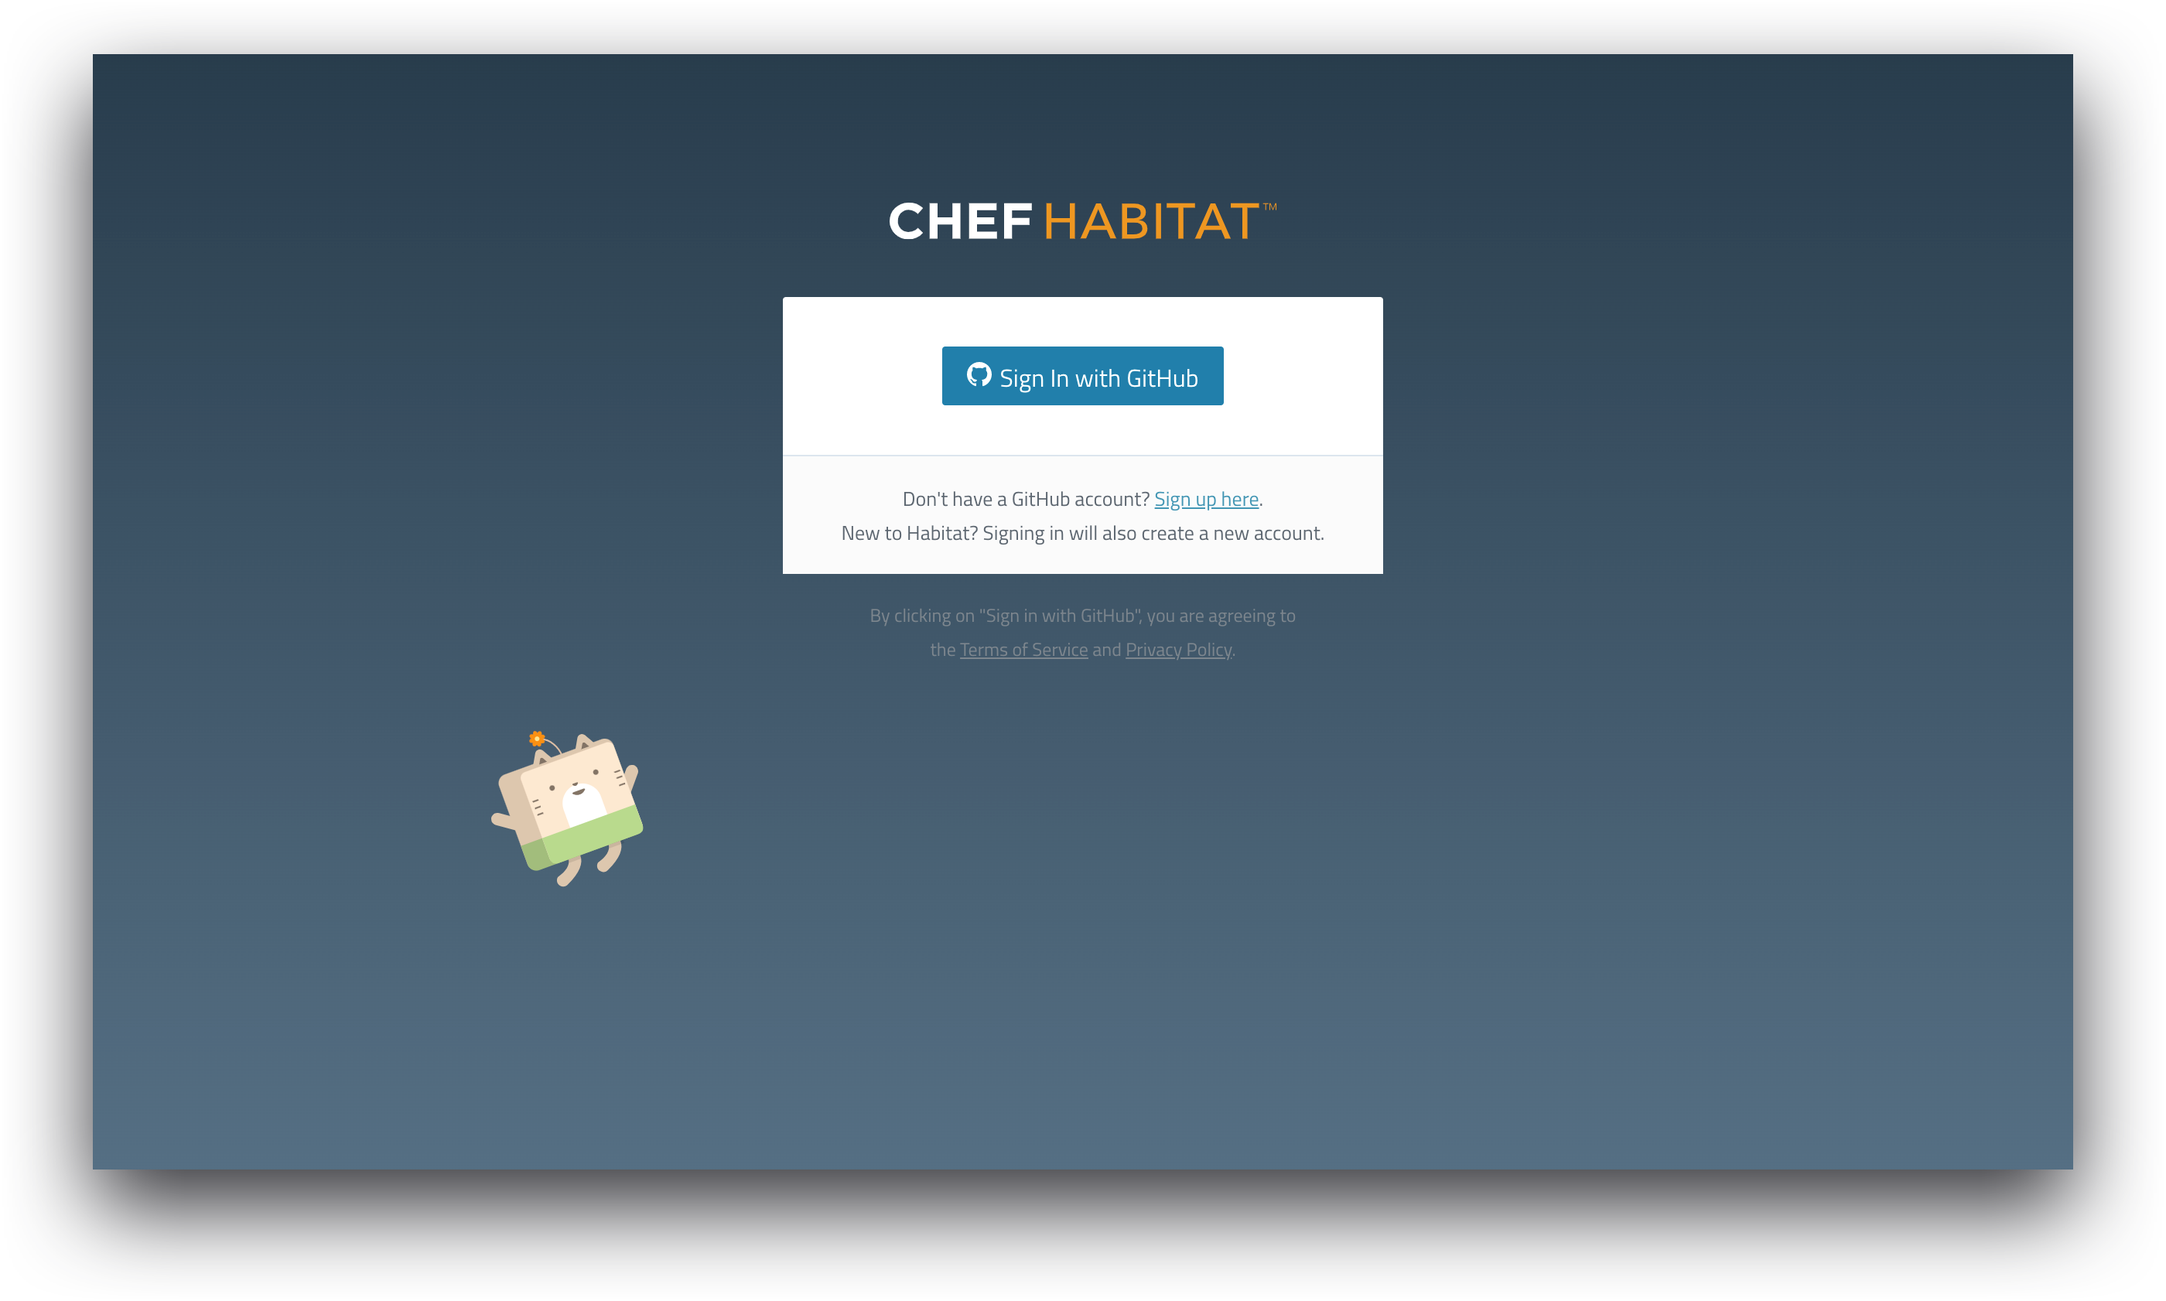
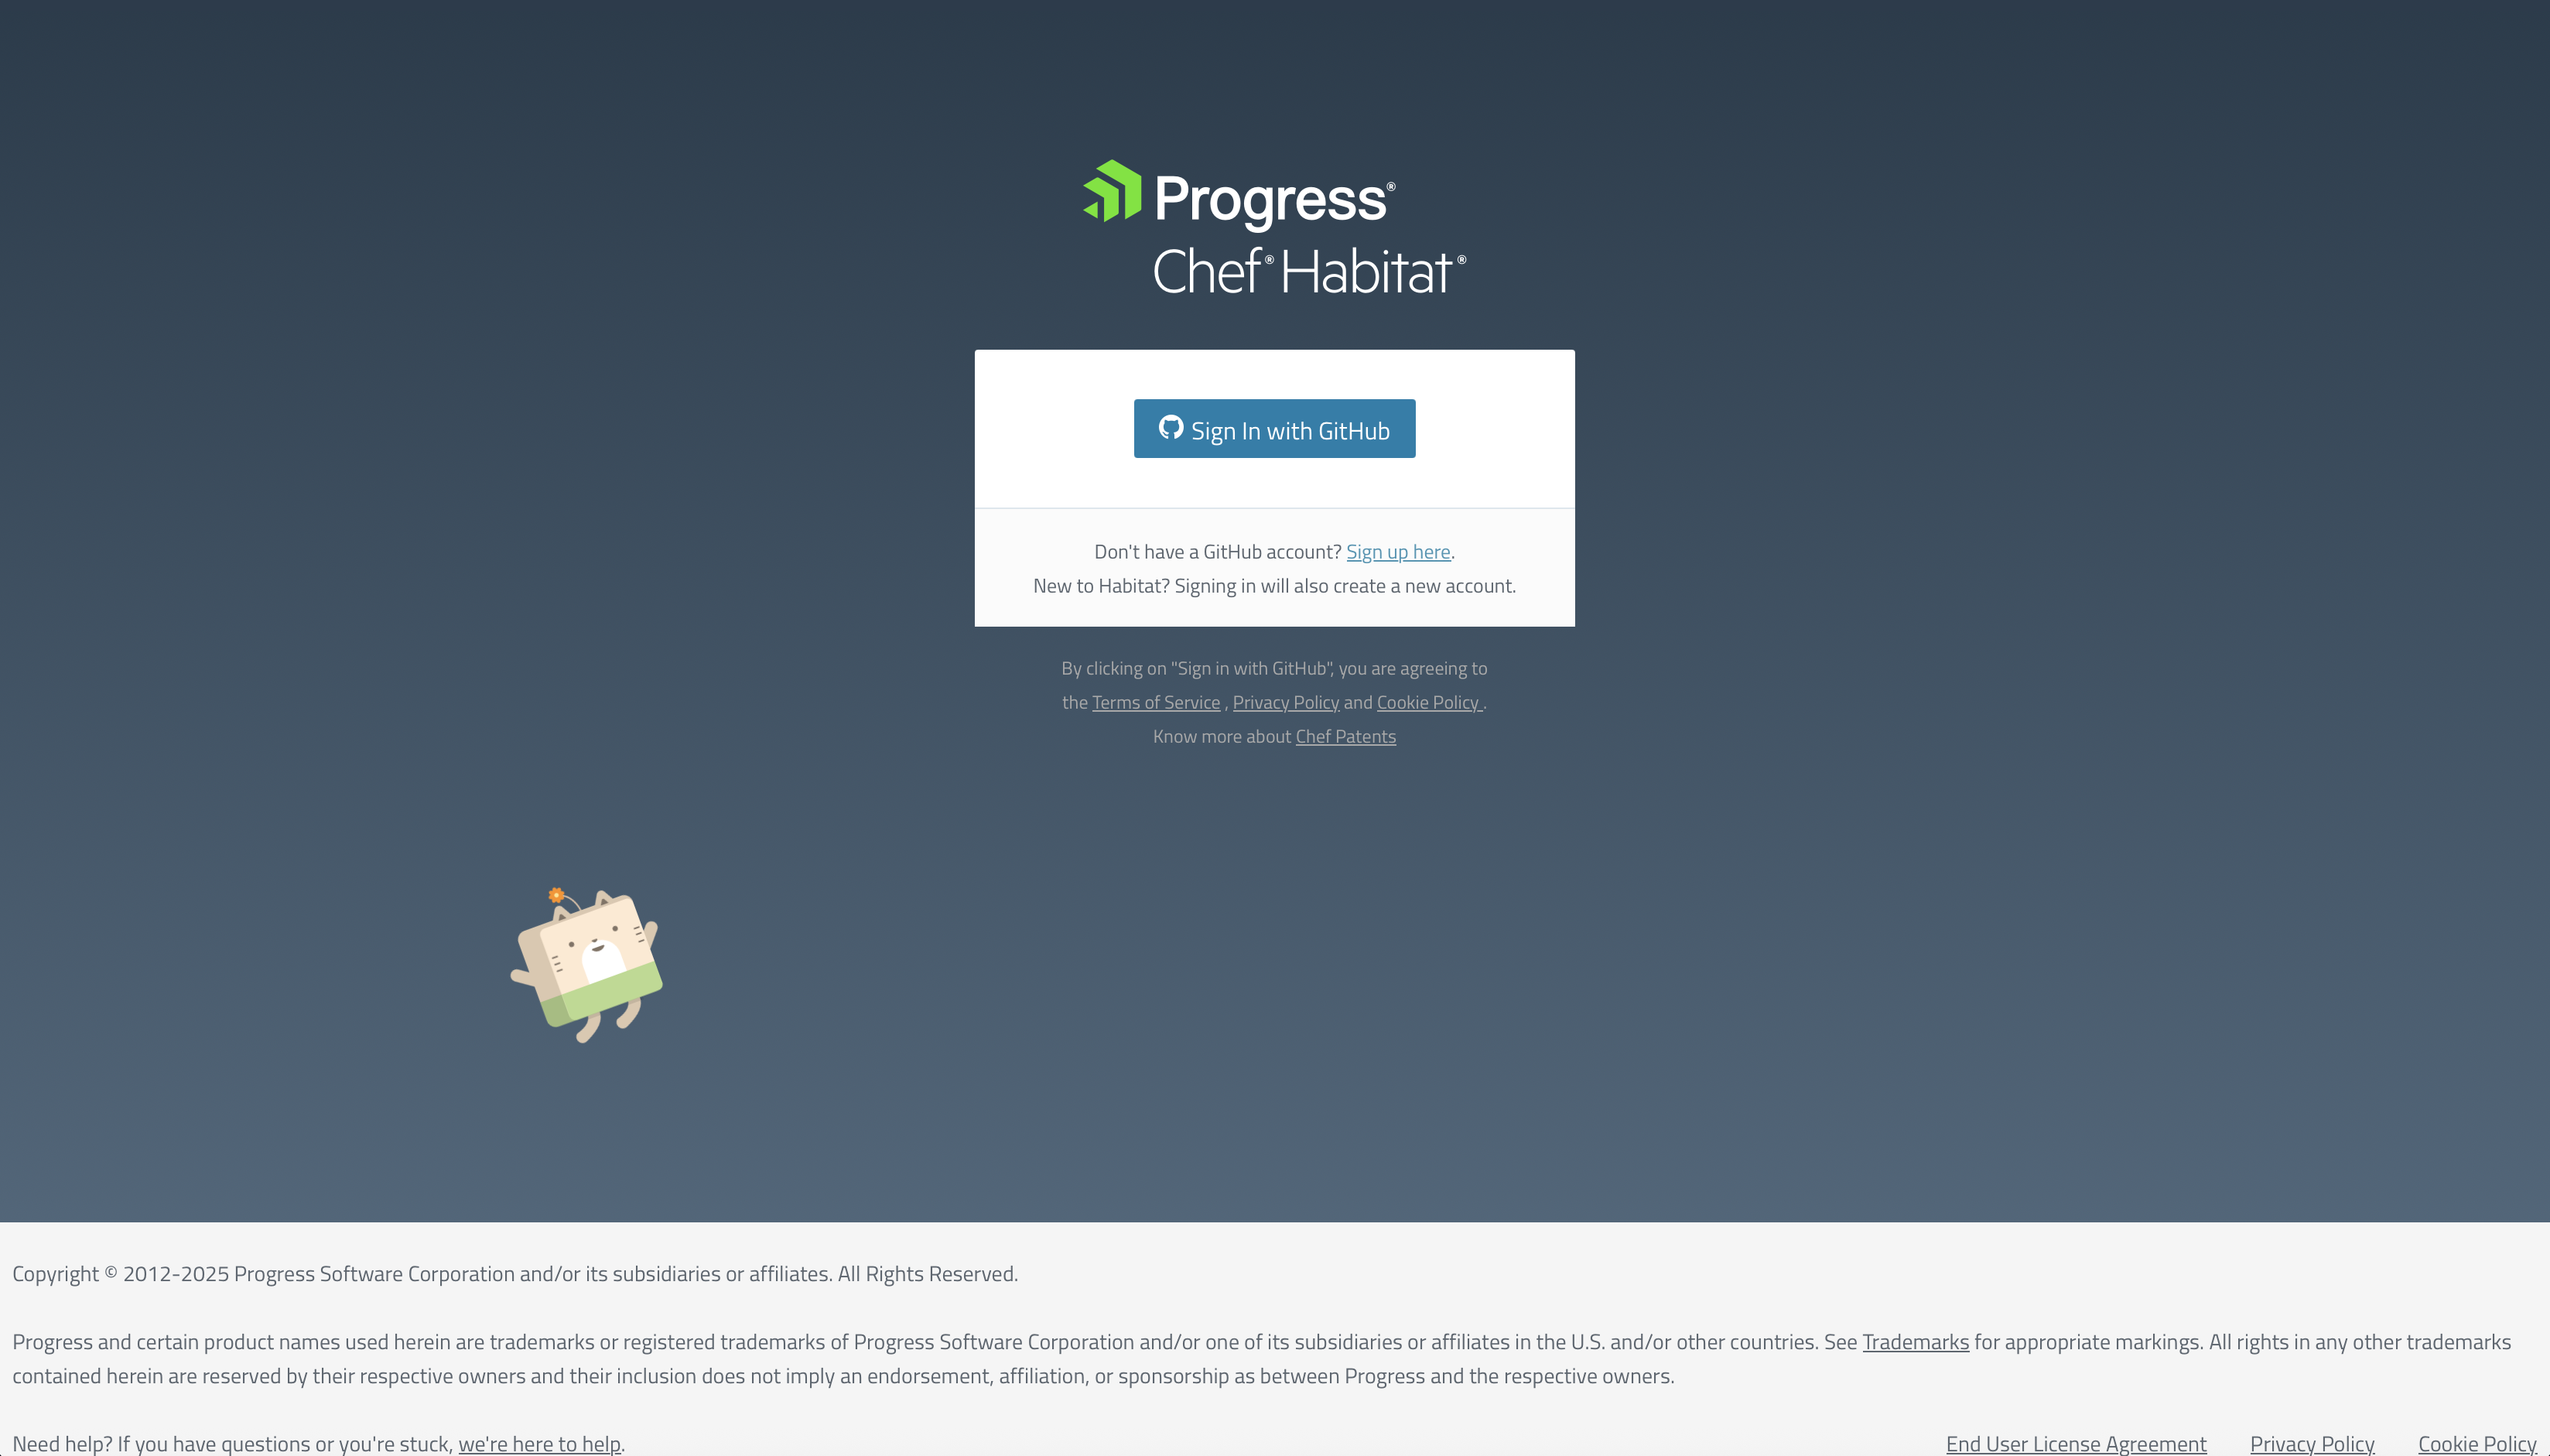
SaaS Builder documentation updates
Updated the documentation consistent with the current builder
implementation -
 - Removed all the package building related document
 - Updated images to reflect current footer and progress branding.

diff --git a/content/saas_builder/builder_origin_packages.md b/content/saas_builder/builder_origin_packages.md
@@ -118,92 +118,3 @@ You can instruct the Supervisor to run packages from an exported tarball:
 ```
 
 Note: On a clean server, this will download additional packages to satisfy the Supervisor dependencies. You will also require a `hab` group and `hab` user on the system for most services.
-
-## Building Packages with Multiple Plans
-
-If you have a GitHub repository with multiple components inside, you will most likely also have individual plans for those components that are located inside of component subfolders. By default, Builder will only look for a package plan in either the root of the repository, or in a `habitat` subfolder at the root. If it doesn't find a plan file in those locations, it won't automatically issue builds when it detects file changes in the repository.
-
-In order to tell Builder about the location of the individual plan files, and in order provide more fine-grained control over when component packages are built, you can programmatically customize how and when Builder will build your plans by specifying build behavior in a `.bldr.toml` file at the root of the repository that you connect to Builder.
-
-Using this file, Builder only builds packages when source files or directories are updated in paths specified in `.bldr.toml`. This allows you to configure the building, publishing, and post-processing phases of a plan build in Builder.
-
-To enable this functionality, do the following:
-
-1. Create a `.bldr.toml` in the root of your repository.
-
-2. Open it and add an entry for each component package that you want to build.
-
-    The `.bldr.toml` file is in TOML format, so create a TOML table specifying the `$pkg_name` value for that plan and then add a `plan_path` field specifying the path to your `plan.sh` file (you don't need to include `plan.sh` explicitly in the path). If all the files related to the plan are under the plan path, then you are done. Otherwise, you will need an additional 'paths' field specifying Unix-style path globs to files that are associated with the plan you specified in the 'plan_path'. File or directory changes made in these path locations determine which packages will be rebuilt. Basically, when a file is committed, Builder will check to see whether it falls underneath the `plan_path` hierarchy, or matches one of the globs in the `paths` field if it was specified - if the answer is yes, then Builder will issue a build for that commit.
-
-    It's important to note that the entries for `plan_path` and `paths` don't behave the same. If you have something like `plan_path = "habitat"`, that behaves as if you had written `plan_path = "habitat/*"` - that is, it will automatically check every file under the `habitat` directory. However, if you have something like `paths = [ "src" ]`, that's *not* automatically expanded to `src/*`. That line will only watch for changes to a file called `src`. If you're wanting to watch for changes to any file inside the `src` directory, then you must explicitly specify the glob, like so: `paths = [ "src/*" ]`.
-
-    For example, in the Chef Habitat repository itself, this TOML states that the `hab-launcher`, `hab-studio`, and `hab-sup` packages will be rebuilt if there are any changes in any of the specified `components` sub-directories. Note that `hab-studio` doesn't need to specify a `path` because all of it's files are within the `plan_path` hierarchy, but that isn't the case for the other projects.
-
-    ```toml
-    # .bldr.toml
-    [hab-launcher]
-    plan_path = "components/launcher/habitat"
-    paths = [
-      "components/launcher/*",
-      "components/launcher-protocol/*",
-      "support/ci/builder-base-plan.sh",
-    ]
-
-    [hab-studio]
-    plan_path = "components/studio"
-
-    [hab-sup]
-    plan_path = "components/sup"
-    paths = [
-      "components/sup/*",
-      "components/eventsrv-client/*",
-      "components/launcher-client/*",
-      "components/butterfly/*",
-      "components/core/*",
-      "components/builder-depot-client/*",
-    ]
-    ```
-
-    Notice that in order to specify that we're interested in all files inside of the directories in our `paths` entries, we had to add the `/*` glob to the end manually.
-
-    It's also worth pointing out that there are multiple wildcard characters you can use when specifying path components.
-
-* `?` will match any single character.
-* `*` will match any (possibly empty) sequence of characters
-* `**` matches the current directory and arbitrary subdirectories. This sequence must form a single path component, so both `**a` and `b**` are invalid. More than two consecutive `*` characters is also invalid.
-* `[...]` matches any character inside the brackets. You can also specify a range, such as `[0-9]` to match any digit or `[a-z]` to match any lowercase letter.
-* `[!...]` is the negation of `[...]` so it will match any character *not* in the brackets.
-
-    Note that while the above set of rules bears a remarkable resemblance to regular expressions, we don't support full regular expression syntax. Only what's shown here is supported. Here is an example.
-
-    ```toml
-    # .bldr.toml
-    [hab-sup]
-    plan_path = "components/sup"          # automatically checks every file inside the 'sup' directory
-    paths = [
-      "components/sup/?",                 # matches any file with a single character file name inside the 'sup' directory
-      "components/eventsrv-client/*",     # matches any file inside the 'eventsrv-client' directory
-      "components/launcher-client/**/*",  # matches any file inside the 'launcher-client' directory and also any of its sub-directories
-      "components/butterfly/[0-9]*"       # matches any file inside the 'butterfly' directory that begins with a number
-    ]
-    ```
-
-## Automated Builds
-
-By connecting a plan file in [Chef Habitat Builder](https://bldr.habitat.sh/#/sign-in), you can trigger both manual (with the web UI, or with the `hab` command line) as well as automated package rebuilds whenever a change is merged into the `master` branch of the repository containing your Chef Habitat plan, or when a dependent package updates (rebuilds).
-
-### Connect a Plan
-
-To connect a plan to Builder, view one of your origins (while signed in), click the **Connect a plan file** button, and complete the following steps:
-
-* Install the Builder GitHub App
-* Choose the GitHub organization and repository containing your Chef Habitat plan
-* Choose a privacy setting for the package
-* Specify container-registry publishing settings (optional)
-* Specify auto-build option (default is off)
-
-### Auto-build Option
-
-The auto-build option controls whether or not your package will get automatically re-built. This option is a useful capability to have---for example, if you have a demo app that doesn't need to be kept constantly up to date when some underlying dependency updates. Auto-build encompasses both builds that are triggered by GitHub web hooks (on commits to the default branch), as well as builds that are triggered by a dependency updating.
-
-By default, new plan connections will have auto-build turned off.

diff --git a/content/saas_builder/_index.md b/content/saas_builder/_index.md
@@ -1,7 +1,7 @@
 +++
 title = "About Chef Habitat Builder"
 description = "Chef Habitat Builder is Chef's Application Delivery Enterprise hub"
-linkTitle = "Habitat Builder SaaS"
+linkTitle = "Chef Habitat Builder"
 
 [menu.saas]
     title = "Chef Habitat Builder"
@@ -10,11 +10,12 @@ linkTitle = "Habitat Builder SaaS"
     weight = 10
 +++
 
-Chef Habitat Builder is the core of Chef's Application Delivery Enterprise hub.
-It was first launched as a cloud service and as the repository of all available plan templates built by Chef and the supporting community.
-Since the application source code is stored alongside the build package, many users preferred storing packages and running [Chef Habitat On-Prem Builder](https://docs.chef.io/habitat/on_prem_builder/).
-As a result, Chef Habitat Builder can be used as either a cloud-based or on-premises solution.
-Plan files are stored in the Chef Habitat Builder SaaS, where they can be viewed and accessed by the Chef Habitat community and shared with Habitat On-Prem Builder for local copying and maintenance.
+Chef Habitat Builder is the core of Chef's Application Delivery Enterprise hub. Chef Habitat Builder can be used as either a cloud-based or an on-premises solution.
+Cloud-based SaaS Chef Habitat Builder is used to host core packages belonging to [Chef owned origins](path-to-chef-owned-origins). [Chef Habitat On-Prem Builder](https://docs.chef.io/habitat/on_prem_builder/) can be used to host the packages belonging to user owned origins.
+
+{{< note >}}
+When this document is merged with the new menu structure, this should be part of "About Chef Habitat Builder" and not necessarily SaaS Builder documentation.
+{{< /note >}}
 
 ## Chef Habitat Builder components
 

diff --git a/content/reusable/md/builder_origins.md b/content/reusable/md/builder_origins.md
@@ -1,5 +1,5 @@
 An origin is a unique namespace in Chef Habitat Builder where you can store, share, and build packages.
 Once created, an origin can't be renamed, but it can be deleted or transferred.
-For example, the _core_ origin contains foundational packages managed and versioned by the core Chef Habitat maintainers.
+For example, the _core_ origin contains foundational packages managed and versioned by Chef Habitat maintainers.
 
 You can join existing origins by invitation or create your own origins in an on-prem Habitat Builder deployment. For details about invitations, see [origin membership and RBAC](origin_rbac#origin-membership" >}}).

diff --git a/content/saas_builder/builder_account.md b/content/saas_builder/builder_account.md
@@ -11,7 +11,7 @@ description = "Setting up Chef Habitat Builder in the Cloud and on your workstat
 
 +++
 
-Whether you are looking to leverage the SaaS or on-prem version of Chef Habitat Builder, you'll need to create an account on the SaaS version of Chef Habitat Builder. After you have then downloaded the version, you'll then sync the two accounts.
+Whether you are looking to leverage the SaaS or on-prem version of Chef Habitat Builder, you'll need to create an account on the SaaS version of Chef Habitat Builder. After you have then downloaded the on-prem version, you'll then sync the two accounts.
 
 ## Prerequisites
 

diff --git a/content/saas_builder/builder_profile.md b/content/saas_builder/builder_profile.md
@@ -9,7 +9,7 @@ title = "Builder Profile"
   weight = 30
 +++
 
-To use the SaaS or on-premises version of Chef Habitat Builder, you need to create an account on the SaaS version. After downloading the version, sync the two accounts.
+To use the SaaS or on-premises version of Chef Habitat Builder, you need to create an account on the SaaS version. After downloading the on-prem version, sync the two accounts.
 
 ## Get an account
 
